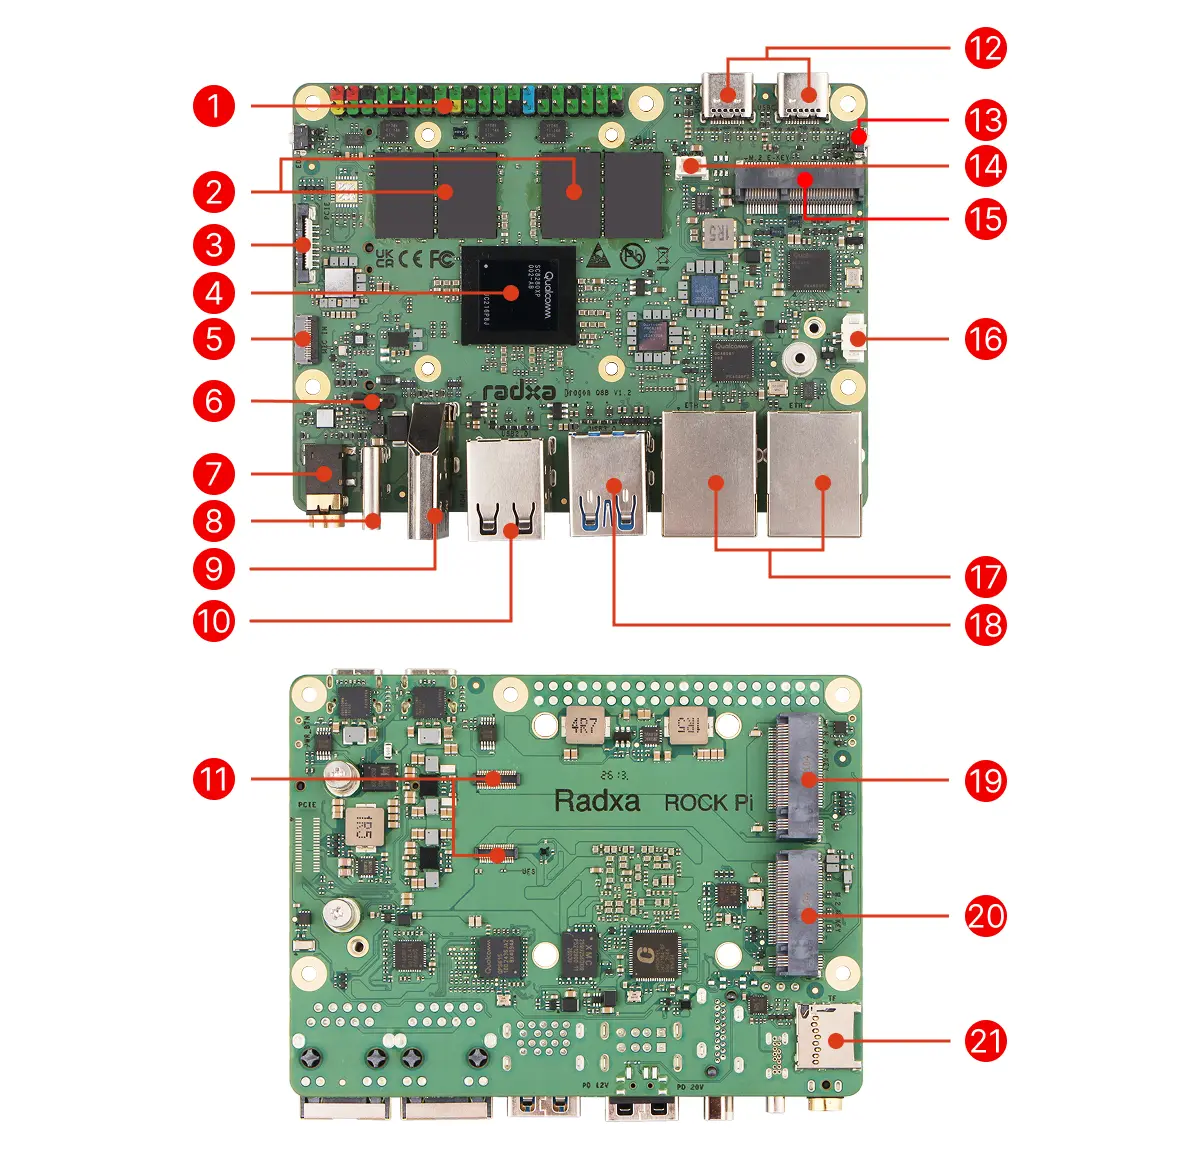
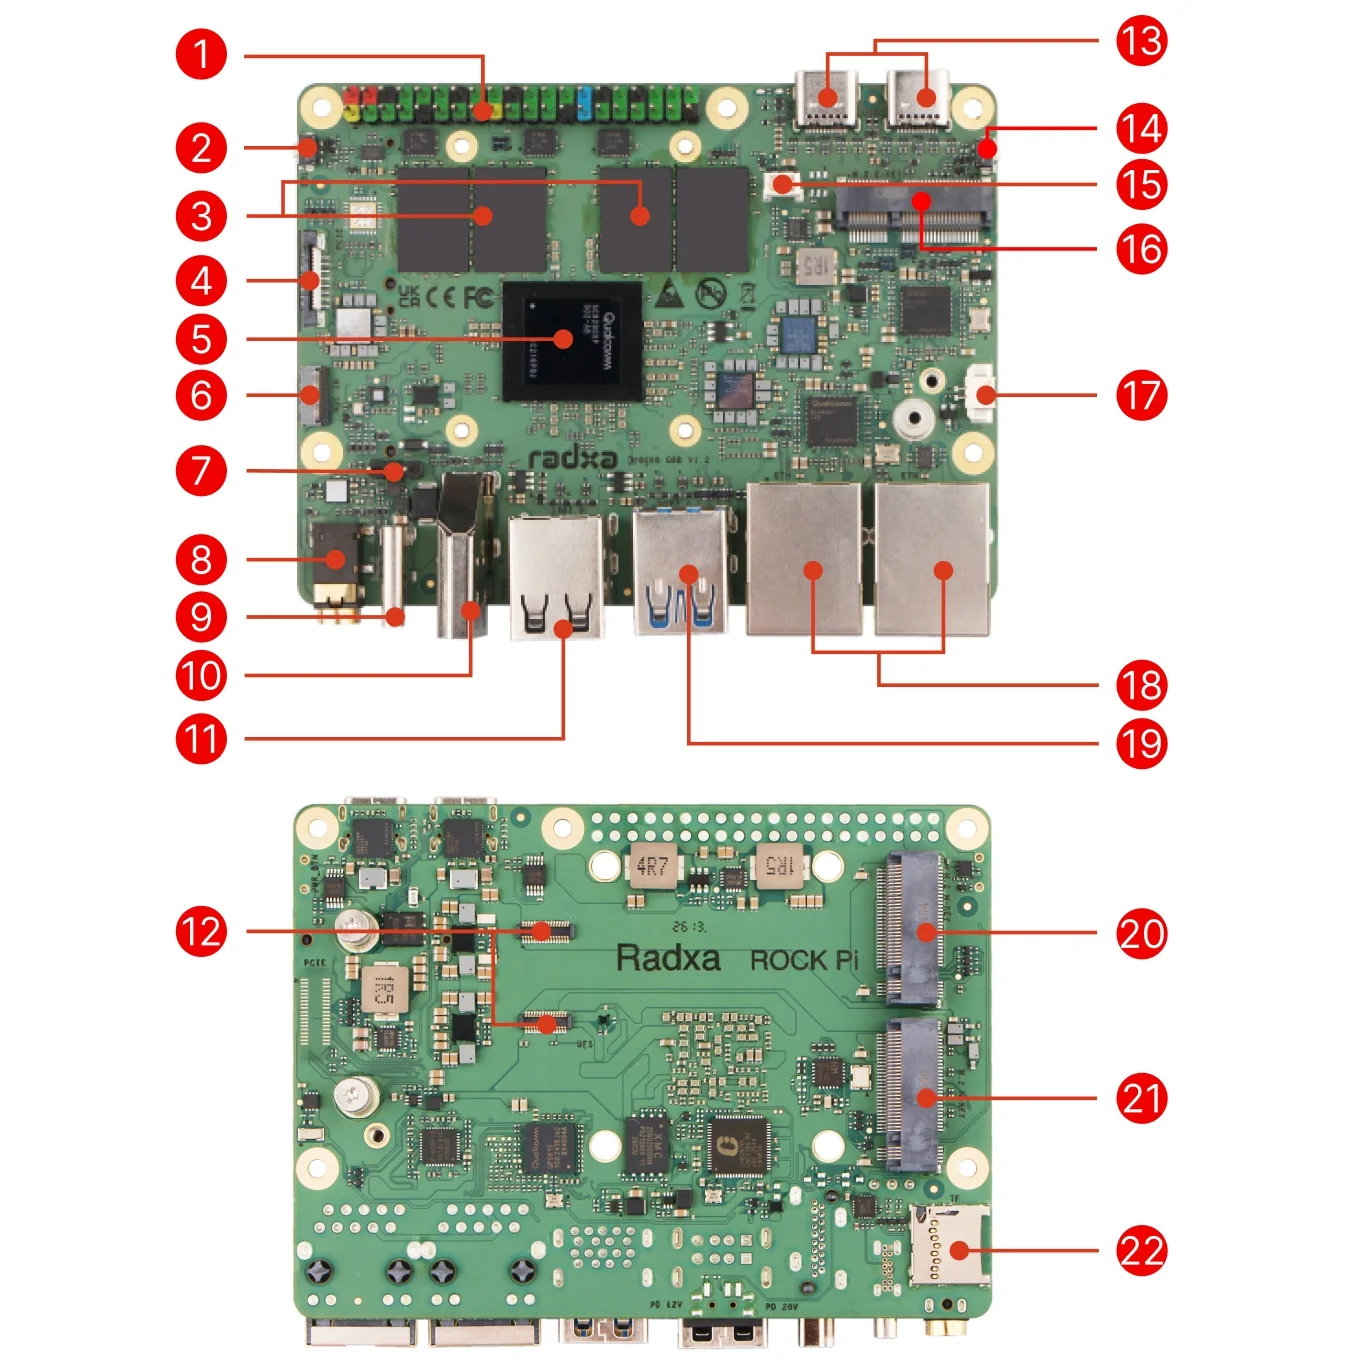
docs: update Dragon Q8B interface diagram and table
- Replace q8b_interface image with new annotated version
- Add new #2 EDL button, shift original #2+ by +1
- Fix mislabeled #13: EDL button -> power button

diff --git a/docs/dragon/q8b/README.md b/docs/dragon/q8b/README.md
@@ -51,13 +51,14 @@ sidebar_position: 2
 
 | 序号 | 说明                                   | 序号 | 说明                              | 序号 | 说明                         |
 | :--: | :------------------------------------- | :--: | :-------------------------------- | :--: | :--------------------------- |
-|  1   | 40-Pin GPIO 排针                       |  2   | LPDDR4X 内存                      |  3   | FPC 接口                     |
-|  4   | 高通骁龙 8cx Gen 3 (高通 SC8280XP)   |  5   | 麦克风接口                        |  6   | 电源排针                     |
-|  7   | 3.5 mm 耳机插孔                        |  8   | USB Type-C 供电接口（20V）        |  9   | HDMI 2.1 接口                |
-|  10  | USB 2.0 Type-A 接口                    |  11  | UFS 模块接口                      |  12  | 2x USB-C（支持 DP Alt 模式） |
-|  13  | EDL 按键                               |  14  | 风扇接口                          |  15  | M.2 E Key 插槽               |
-|  16  | RTC 电池接口                           |  17  | 2.5GbE 以太网接口                 |  18  | 2x USB 3.2 Gen2 Type-A 接口  |
-|  19  | M.2 M Key 2280 插槽 <br/>- PCIe 3.0 x2 |  20  | M.2 M Key 插槽 <br/>- PCIe 3.0 x4 |  21  | microSD 卡槽                 |
+|  1   | 40-Pin GPIO 排针                       |  2   | EDL 按键                          |  3   | LPDDR4X 内存                  |
+|  4   | FPC 接口                               |  5   | 高通骁龙 8cx Gen 3 (高通 SC8280XP) |  6   | 麦克风接口                  |
+|  7   | 电源排针                               |  8   | 3.5 mm 耳机插孔                    |  9   | USB Type-C 供电接口（20V）   |
+|  10  | HDMI 2.1 接口                          |  11  | USB 2.0 Type-A 接口                |  12  | UFS 模块接口                |
+|  13  | 2x USB-C（支持 DP Alt 模式）           |  14  | 电源按键                          |  15  | 风扇接口                    |
+|  16  | M.2 E Key 插槽                         |  17  | RTC 电池接口                      |  18  | 2.5GbE 以太网接口            |
+|  19  | 2x USB 3.2 Gen2 Type-A 接口            |  20  | M.2 M Key 2280 插槽 <br/>- PCIe 3.0 x2 |  21  | M.2 M Key 插槽 <br/>- PCIe 3.0 x4 |
+|  22  | microSD 卡槽                           |      |                                   |      |                              |
 
 ## 应用场景
 

diff --git a/docs/dragon/q8b/hardware-use/hardware-info.md b/docs/dragon/q8b/hardware-use/hardware-info.md
@@ -18,11 +18,12 @@ sidebar_position: 1
 
 | 序号 | 说明                                   | 序号 | 说明                              | 序号 | 说明                         |
 | :--: | :------------------------------------- | :--: | :-------------------------------- | :--: | :--------------------------- |
-|  1   | 40-Pin GPIO 排针                       |  2   | LPDDR4X 内存                      |  3   | FPC 接口                     |
-|  4   | 高通骁龙 8cx Gen 3 (高通 SC8280XP)   |  5   | 麦克风接口                        |  6   | 电源排针                     |
-|  7   | 3.5 mm 耳机插孔                        |  8   | USB Type-C 供电接口（20V）        |  9   | HDMI 2.1 接口                |
-|  10  | USB 2.0 Type-A 接口                    |  11  | UFS 模块接口                      |  12  | 2x USB-C（支持 DP Alt 模式） |
-|  13  | EDL 按键                               |  14  | 风扇接口                          |  15  | M.2 E Key 插槽               |
-|  16  | RTC 电池接口                           |  17  | 2.5GbE 以太网接口                 |  18  | 2x USB 3.2 Gen2 Type-A 接口  |
-|  19  | M.2 M Key 2280 插槽 <br/>- PCIe 3.0 x2 |  20  | M.2 M Key 插槽 <br/>- PCIe 3.0 x4 |  21  | microSD 卡槽                 |
+|  1   | 40-Pin GPIO 排针                       |  2   | EDL 按键                          |  3   | LPDDR4X 内存                  |
+|  4   | FPC 接口                               |  5   | 高通骁龙 8cx Gen 3 (高通 SC8280XP) |  6   | 麦克风接口                  |
+|  7   | 电源排针                               |  8   | 3.5 mm 耳机插孔                    |  9   | USB Type-C 供电接口（20V）   |
+|  10  | HDMI 2.1 接口                          |  11  | USB 2.0 Type-A 接口                |  12  | UFS 模块接口                |
+|  13  | 2x USB-C（支持 DP Alt 模式）           |  14  | 电源按键                          |  15  | 风扇接口                    |
+|  16  | M.2 E Key 插槽                         |  17  | RTC 电池接口                      |  18  | 2.5GbE 以太网接口            |
+|  19  | 2x USB 3.2 Gen2 Type-A 接口            |  20  | M.2 M Key 2280 插槽 <br/>- PCIe 3.0 x2 |  21  | M.2 M Key 插槽 <br/>- PCIe 3.0 x4 |
+|  22  | microSD 卡槽                           |      |                                   |      |                              |
 

diff --git a/i18n/en/docusaurus-plugin-content-docs/current/dragon/q8b/README.md b/i18n/en/docusaurus-plugin-content-docs/current/dragon/q8b/README.md
@@ -51,13 +51,14 @@ Designed for edge computing, intelligent terminals, and similar applications, Dr
 
 | No. | Description                            | No. | Description                       | No. | Description                      |
 | :-: | :------------------------------------- | :-: | :-------------------------------- | :-: | :------------------------------- |
-|  1  | 40-pin GPIO header                     |  2  | LPDDR4X memory                    |  3  | FPC connector                    |
-|  4  | Qualcomm Snapdragon 8cx Gen 3 (Qualcomm SC8280XP) |  5  | Microphone connector              |  6  | Power header                     |
-|  7  | 3.5 mm headphone jack                  |  8  | USB Type-C power port (20V)       |  9  | HDMI 2.1 port                    |
-| 10  | USB 2.0 Type-A port                    | 11  | UFS module connector              | 12  | 2x USB-C (DP Alt Mode supported) |
-| 13  | EDL button                             | 14  | Fan connector                     | 15  | M.2 E Key slot                   |
-| 16  | RTC battery connector                  | 17  | 2.5GbE Ethernet port              | 18  | 2x USB 3.2 Gen2 Type-A ports     |
-| 19  | M.2 M Key 2280 slot <br/>- PCIe 3.0 x2 | 20  | M.2 M Key slot <br/>- PCIe 3.0 x4 | 21  | microSD card slot                |
+|  1  | 40-pin GPIO header                     |  2  | EDL button                         |  3  | LPDDR4X memory                  |
+|  4  | FPC connector                         |  5  | Qualcomm Snapdragon 8cx Gen 3 (Qualcomm SC8280XP) |  6  | Microphone connector       |
+|  7  | Power header                          |  8  | 3.5 mm headphone jack              |  9  | USB Type-C power port (20V)   |
+| 10  | HDMI 2.1 port                         | 11  | USB 2.0 Type-A port                | 12  | UFS module connector          |
+| 13  | 2x USB-C (DP Alt Mode supported)      | 14  | Power button                       | 15  | Fan connector                 |
+| 16  | M.2 E Key slot                        | 17  | RTC battery connector              | 18  | 2.5GbE Ethernet port          |
+| 19  | 2x USB 3.2 Gen2 Type-A ports          | 20  | M.2 M Key 2280 slot <br/>- PCIe 3.0 x2 | 21  | M.2 M Key slot <br/>- PCIe 3.0 x4 |
+| 22  | microSD card slot                     |     |                                    |     |                               |
 
 ## Application Scenarios
 

diff --git a/i18n/en/docusaurus-plugin-content-docs/current/dragon/q8b/hardware-use/hardware-info.md b/i18n/en/docusaurus-plugin-content-docs/current/dragon/q8b/hardware-use/hardware-info.md
@@ -18,10 +18,11 @@ sidebar_position: 1
 
 | No. | Description                            | No. | Description                       | No. | Description                      |
 | :-: | :------------------------------------- | :-: | :-------------------------------- | :-: | :------------------------------- |
-|  1  | 40-pin GPIO header                     |  2  | LPDDR4X memory                    |  3  | FPC connector                    |
-|  4  | Qualcomm Snapdragon 8cx Gen 3 (Qualcomm SC8280XP) |  5  | Microphone connector              |  6  | Power header                     |
-|  7  | 3.5 mm headphone jack                  |  8  | USB Type-C power port (20V)       |  9  | HDMI 2.1 port                    |
-| 10  | USB 2.0 Type-A port                    | 11  | UFS module connector              | 12  | 2x USB-C (DP Alt Mode supported) |
-| 13  | EDL button                             | 14  | Fan connector                     | 15  | M.2 E Key slot                   |
-| 16  | RTC battery connector                  | 17  | 2.5GbE Ethernet port              | 18  | 2x USB 3.2 Gen2 Type-A ports     |
-| 19  | M.2 M Key 2280 slot <br/>- PCIe 3.0 x2 | 20  | M.2 M Key slot <br/>- PCIe 3.0 x4 | 21  | microSD card slot                |
+|  1  | 40-pin GPIO header                     |  2  | EDL button                         |  3  | LPDDR4X memory                  |
+|  4  | FPC connector                         |  5  | Qualcomm Snapdragon 8cx Gen 3 (Qualcomm SC8280XP) |  6  | Microphone connector       |
+|  7  | Power header                          |  8  | 3.5 mm headphone jack              |  9  | USB Type-C power port (20V)   |
+| 10  | HDMI 2.1 port                         | 11  | USB 2.0 Type-A port                | 12  | UFS module connector          |
+| 13  | 2x USB-C (DP Alt Mode supported)      | 14  | Power button                       | 15  | Fan connector                 |
+| 16  | M.2 E Key slot                        | 17  | RTC battery connector              | 18  | 2.5GbE Ethernet port          |
+| 19  | 2x USB 3.2 Gen2 Type-A ports          | 20  | M.2 M Key 2280 slot <br/>- PCIe 3.0 x2 | 21  | M.2 M Key slot <br/>- PCIe 3.0 x4 |
+| 22  | microSD card slot                     |     |                                    |     |                               |
